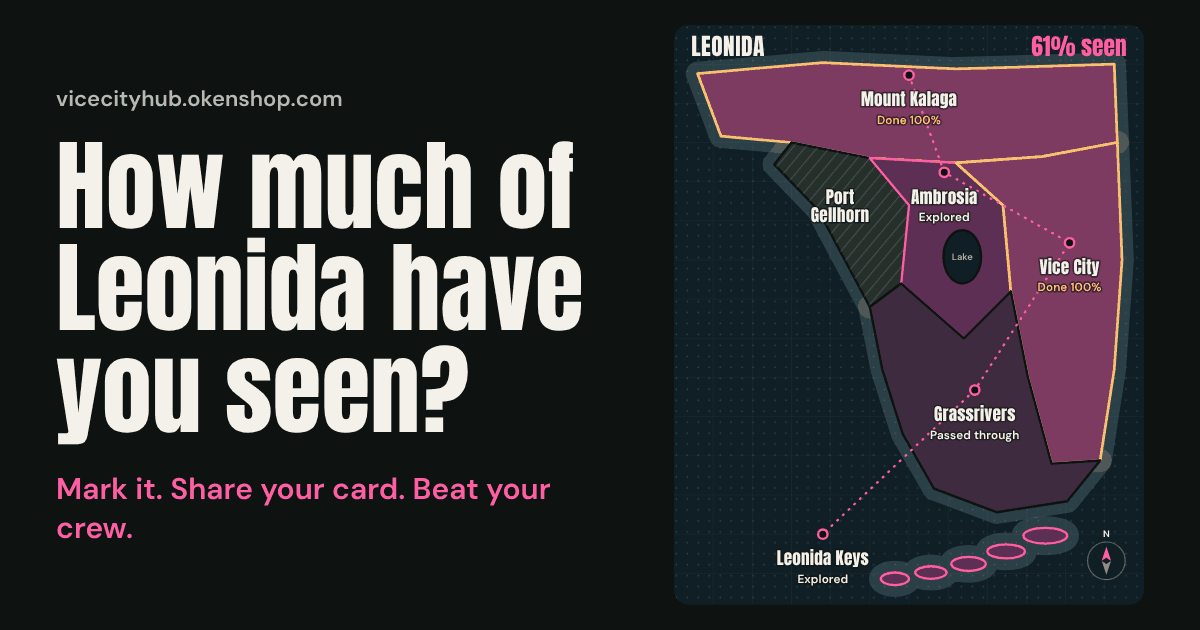
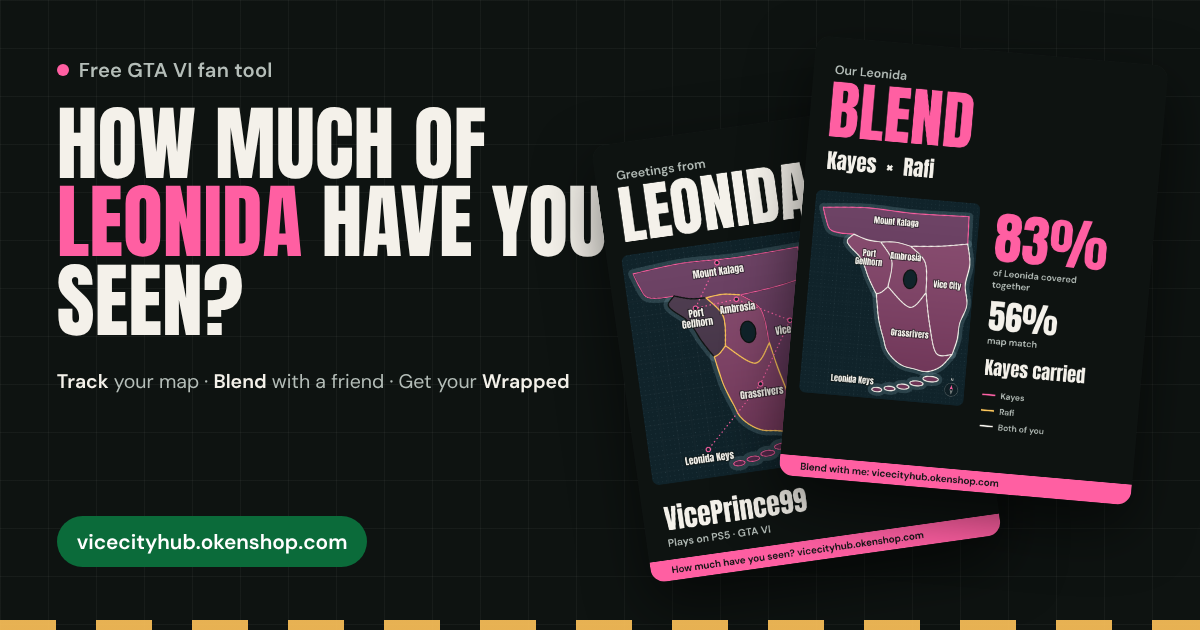
Keep the username off public pages, new sharing poster
- Every link on the site and in the docs now goes through short
  addresses on the hub's domain (/source, /report, /idea, /issues,
  /good-first-issues, /security-report); only vercel.json holds the
  repository address. Licence credits the contributors; CODEOWNERS
  removed.
- New sharing image (og.png) and README banner: the headline beside a
  map card and a Blend card, so every shared link shows the product.

Claude-Session: https://claude.ai/code/session_01V1vhkWMqwTY81FT6V3Bd8t

diff --git a/site/index.html b/site/index.html
@@ -24,12 +24,12 @@
 <meta property="og:image" content="https://vicecityhub.okenshop.com/hub/img/og.png">
 <meta property="og:image:width" content="1200">
 <meta property="og:image:height" content="630">
-<meta property="og:image:alt" content="A drawn map of Leonida: explored regions lit, finished ones edged in gold, a dotted route between them">
+<meta property="og:image:alt" content="How much of Leonida have you seen? A Leonida map card and a Blend card for two friends">
 <meta name="twitter:card" content="summary_large_image">
 <meta name="twitter:title" content="GTA 6: how much of Leonida have you seen?">
 <meta name="twitter:description" content="Mark your GTA 6 regions, keep your Leonida Daily streak, get your map card and challenge your crew.">
 <meta name="twitter:image" content="https://vicecityhub.okenshop.com/hub/img/og.png">
-<meta name="twitter:image:alt" content="A drawn map of Leonida: explored regions lit, finished ones edged in gold, a dotted route between them">
+<meta name="twitter:image:alt" content="How much of Leonida have you seen? A Leonida map card and a Blend card for two friends">
 <link rel="preload" href="hub/fonts/anton-400.woff" as="font" type="font/woff" crossorigin>
 <link rel="preload" href="hub/fonts/dmsans-400.woff" as="font" type="font/woff" crossorigin>
 <link rel="stylesheet" href="hub/hub.css">
@@ -333,7 +333,7 @@
 
 <footer class="foot">
   <p>Vice City Hub is an independent fan tool. Not affiliated with or endorsed by Rockstar Games or Take-Two Interactive. Grand Theft Auto and GTA are trademarks of Take-Two Interactive Software. No Rockstar artwork is used.</p>
-  <p>Open source: <a href="https://github.com/kayesislam0/ViceCityHub" rel="noopener">fix a bug or suggest a tool on GitHub</a>.</p>
+  <p>Open source: <a href="/source" rel="noopener">fix a bug or suggest a tool on GitHub</a>.</p>
   <p><a href="/legal">Terms and privacy</a></p>
   <nav class="langs" aria-label="Language"><a href="?lang=en" data-lang="en" hreflang="en" lang="en">English</a><a href="?lang=es" data-lang="es" hreflang="es" lang="es">Español</a><a href="?lang=pt" data-lang="pt" hreflang="pt" lang="pt">Português</a></nav>
   <p><button class="linklike" type="button" id="reset">Clear my map</button></p>

diff --git a/site/legal.html b/site/legal.html
@@ -49,8 +49,8 @@
 
   <h2>Rights holders and contact</h2>
   <p>If you believe something on the hub infringes your rights, or for anything else, contact the maintainer through the
-  project's <a href="https://github.com/kayesislam0/ViceCityHub/issues">GitHub page</a> (use a
-  <a href="https://github.com/kayesislam0/ViceCityHub/security/advisories/new">private report</a> for anything sensitive).
+  project's <a href="https://vicecityhub.okenshop.com/issues">GitHub page</a> (use a
+  <a href="https://vicecityhub.okenshop.com/security-report">private report</a> for anything sensitive).
   We will look at it promptly and remove material where appropriate.</p>
 
   <h2>Changes</h2>

diff --git a/README.md b/README.md
@@ -1,6 +1,6 @@
 <div align="center">
 
-<img src="site/hub/img/icon.svg" width="72" height="72" alt="">
+<img src="docs/img/banner.png" alt="Vice City Hub: how much of Leonida have you seen? A map card and a Blend card for GTA VI">
 
 # Vice City Hub
 
@@ -9,9 +9,8 @@
 A free, fast fan tool for GTA VI players. Mark the regions you have explored, get a map card worth posting,
 and challenge your crew with one link.
 
-[**Open the hub →**](https://vicecityhub.okenshop.com) &nbsp;·&nbsp; [Report a bug](https://github.com/kayesislam0/ViceCityHub/issues/new?template=bug.yml) &nbsp;·&nbsp; [Suggest an idea](https://github.com/kayesislam0/ViceCityHub/issues/new?template=idea.yml) &nbsp;·&nbsp; [Tip the hub](https://vicecityhub.okenshop.com/#tip)
+[**Open the hub →**](https://vicecityhub.okenshop.com) &nbsp;·&nbsp; [Report a bug](https://vicecityhub.okenshop.com/report) &nbsp;·&nbsp; [Suggest an idea](https://vicecityhub.okenshop.com/idea) &nbsp;·&nbsp; [Tip the hub](https://vicecityhub.okenshop.com/#tip)
 
-[![Checks](https://github.com/kayesislam0/ViceCityHub/actions/workflows/check.yml/badge.svg)](https://github.com/kayesislam0/ViceCityHub/actions/workflows/check.yml)
 ![No build step](https://img.shields.io/badge/build_step-none-0B6B3A)
 ![No tracking](https://img.shields.io/badge/tracking-none-0B6B3A)
 [![MIT licence](https://img.shields.io/badge/licence-MIT-FF5FA2)](LICENSE)
@@ -19,7 +18,7 @@ and challenge your crew with one link.
 </div>
 
 <p align="center">
-  <img src="docs/img/card.png" width="300" alt="A Leonida map card: 72% of Leonida seen, rank Kingpin, each region marked by how far the player got">
+  <img src="docs/img/blend.png" width="300" alt="A Leonida Blend card: two players' maps on one card, 83% covered together, map match and who carried">
   &nbsp;&nbsp;
   <img src="docs/img/wrapped.png" width="300" alt="A Leonida Wrapped card: 72% seen, final rank Kingpin, best daily streak, daily tasks done and regions at 100%">
   &nbsp;&nbsp;
@@ -50,7 +49,7 @@ and no request to any other site.
 You need nothing but Python, which most computers already have.
 
 ```sh
-git clone https://github.com/kayesislam0/ViceCityHub.git
+# fork the repository on GitHub, then clone your fork
 cd ViceCityHub/site
 python3 -m http.server 8000
 ```
@@ -62,7 +61,7 @@ JavaScript, no framework and no build step.
 
 Bug fixes and small improvements are welcome from anyone, and every pull request gets a review.
 
-1. Pick an issue labelled [`good first issue`](https://github.com/kayesislam0/ViceCityHub/labels/good%20first%20issue), or open one.
+1. Pick an issue labelled [`good first issue`](https://vicecityhub.okenshop.com/good-first-issues), or open one.
 2. Fork, make your change, run the checks (below).
 3. Open a pull request. The checks run on it automatically.
 

diff --git a/docs/OPERATIONS.md b/docs/OPERATIONS.md
@@ -4,7 +4,7 @@ For the owner. Contributors don't need any of this.
 
 ## Put it live (once)
 
-1. Vercel → Add New → Project → import `kayesislam0/ViceCityHub`.
+1. Vercel → Add New → Project → import this repository.
 2. Framework preset: Other. Build and install commands: empty. Output directory: `site`. Root directory: the repository root.
 3. Settings → Domains → add `vicecityhub.okenshop.com`.
 4. At your DNS provider keep (or add) the record Vercel shows, usually `CNAME vicecityhub → cname.vercel-dns.com`.
@@ -19,10 +19,17 @@ Delete the Vercel project, remove the `vicecityhub` DNS record, then archive or 
 - The **Checks** workflow runs `tests/check.py` on every pull request. Merge only when it is green.
 - Vercel builds a preview of every pull request. Open it on a phone before merging anything visual.
 - Never merge a change to the tip details (`site/index.html` tip section, `site/hub/img/qr-*.svg`, `tests/check.py`
-  constants). `.github/CODEOWNERS` marks those files so GitHub asks for your review.
+  constants).
 - In Settings → Branches, protect `main`: require a pull request and the **check** status before merging.
 
 ## Change the tip details
 
 Edit the tip section in `site/index.html`, regenerate both QR SVGs from the exact address and link, and update `BTC`
 and `BINANCE` in `tests/check.py`. The checks fail if any of the three disagree.
+
+## Keeping your username off the public pages
+
+Every link on the site and in the docs goes through short addresses on the hub's own domain (`/source`, `/report`,
+`/idea`, `/issues`, `/good-first-issues`, `/security-report`), set in `vercel.json`. If the repository moves, change
+only those redirects. GitHub itself always shows the owner in the repository address; to hide it there too, create a
+GitHub organization (for example `vicecityhub`) and transfer the repository to it (Settings → Transfer ownership).

diff --git a/CONTRIBUTING.md b/CONTRIBUTING.md
@@ -5,13 +5,13 @@ Thanks for helping. Fixes and small improvements from anyone are welcome, and ev
 ## Before you start
 
 - **Small fix?** Just open a pull request.
-- **Bigger change** (a new tool, a new section, a redesign)? Open an [idea issue](https://github.com/kayesislam0/ViceCityHub/issues/new?template=idea.yml) first, so you don't spend an evening on something that won't fit.
-- Looking for something to do? Try the [`good first issue`](https://github.com/kayesislam0/ViceCityHub/labels/good%20first%20issue) label.
+- **Bigger change** (a new tool, a new section, a redesign)? Open an [idea issue](https://vicecityhub.okenshop.com/idea) first, so you don't spend an evening on something that won't fit.
+- Looking for something to do? Try the [`good first issue`](https://vicecityhub.okenshop.com/good-first-issues) label.
 
 ## Set up
 
 ```sh
-git clone https://github.com/<you>/ViceCityHub.git
+git clone <your fork>
 cd ViceCityHub/site
 python3 -m http.server 8000      # open http://localhost:8000
 ```

diff --git a/SECURITY.md b/SECURITY.md
@@ -8,7 +8,7 @@ The most serious problems here would be:
 - a way to get the page to **load content from another site** despite its security policy.
 
 Please report these privately through
-[GitHub's private vulnerability reporting](https://github.com/kayesislam0/ViceCityHub/security/advisories/new),
+[GitHub's private vulnerability reporting](https://vicecityhub.okenshop.com/security-report),
 not in a public issue. You'll get a reply as soon as the maintainer sees it.
 
 Anything else, such as layout bugs or typos, is fine as a normal issue.
